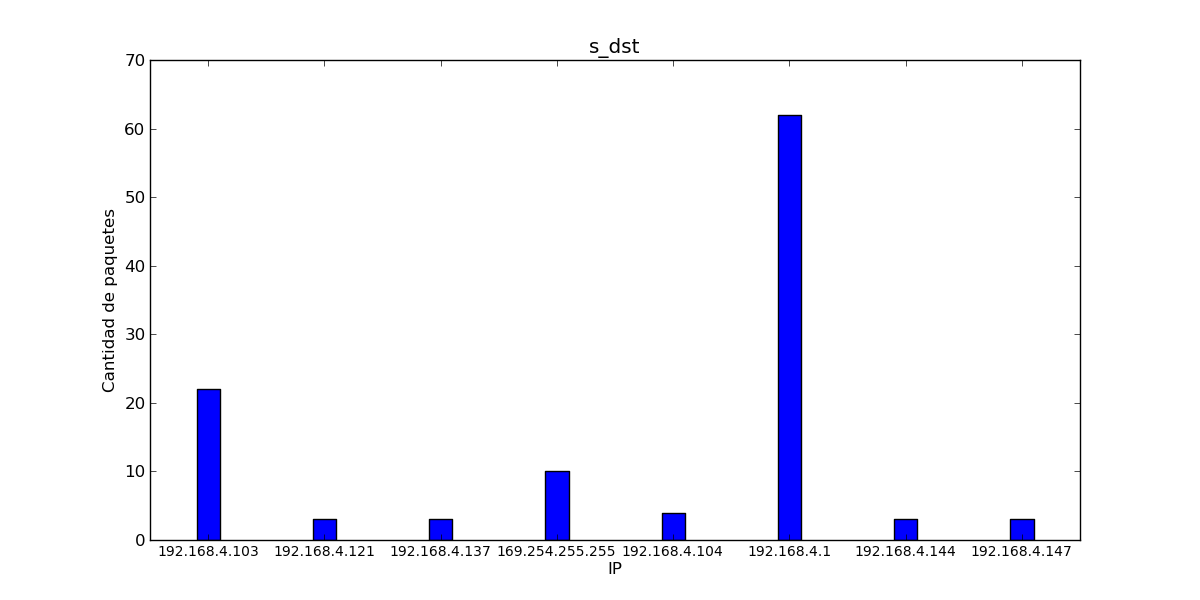
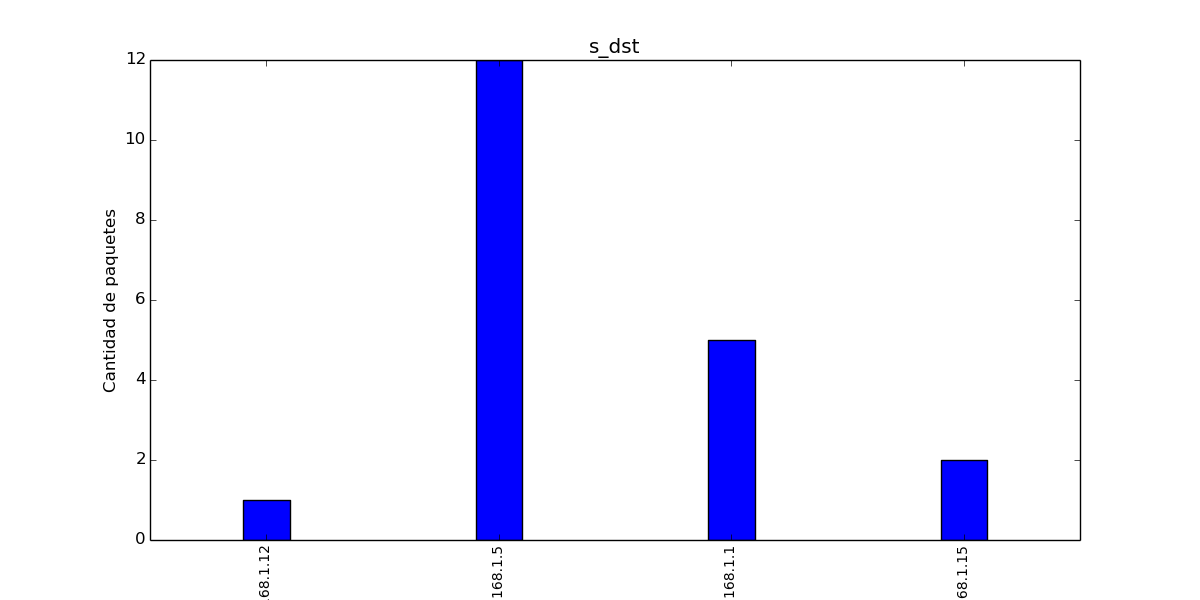
graficar info, definicion informacion

diff --git a/arp_analysis_tool.py b/arp_analysis_tool.py
@@ -4,17 +4,19 @@ import sys;
 import time;
 import math;
 import matplotlib.pyplot as plt;
-import pydot;
+#import pydot;
 
 def main():
   s_src, s_dst = read_data()
   hist, info, entropy = compute_source_indicators(s_src)
   print_indicators('s_src', hist, info, entropy)
   plot_histogram('s_src', hist)
+  plot_info('src_info', info, entropy)
   hist, info, entropy = compute_source_indicators(s_dst)
   print_indicators('s_dst', hist, info, entropy)
   plot_histogram('s_dst', hist)
-  plot_network(s_src, s_dst)
+  plot_info('dst_info', info, entropy)
+  #plot_network(s_src, s_dst)
 
 def read_data():
   s_src, s_dst = [], []
@@ -46,11 +48,25 @@ def plot_histogram(source, hist):
   f = plt.figure(source, [12, 6])
   plt.xlim([-2, x[-1] + 2])
   plt.bar(x, y, align='center')
-  plt.xticks(x, labels, size='small')
+  plt.xticks(x, labels, size='small', rotation='vertical')
   plt.title(source)
   plt.xlabel("IP")
   plt.ylabel("Cantidad de paquetes")
   f.savefig('imgs/{source}.png'.format(source=source))
+
+def plot_info(source, hist, entropy):
+  x, y = [4 * i for i in range(len(hist))], hist.values()
+  labels = hist.keys()
+  f = plt.figure(source, [12, 6])
+  plt.xlim([-2, x[-1] + 2])
+  plt.bar(x, y, align='center')
+  plt.axhline(entropy, color='r')
+  plt.xticks(x, labels, size='small',rotation='vertical')
+  plt.title(source)
+  plt.xlabel("IP")
+  plt.ylabel("Informacion")
+  f.savefig('imgs/{source}.png'.format(source=source))
+
 
 def plot_network(s_src, s_dst):
   graph = pydot.Dot(graph_type='digraph')

diff --git a/informe/informe.tex b/informe/informe.tex
@@ -61,7 +61,19 @@
 En este trabajo práctico vamos a abordar el desarrollo de herramientas de diagnóstico de red. Nuestro objetivo va a ser analizar estadísticamente el protocolo ARP. Por otro lado, vamos a sacar conclusiones acerca de los tipos de dispositivos de red que se pueden encontrar en un segumento de red determinado. Para ello, utilizamos la herramienta de manipulación y análisis de paquetes, Scapy.
 
 \section{Desarrollo}
+Antes de comenzar el desarrollo vamos a definir algunos términos.
 
+Informacion
+Dado un evento E decimos que cuando E tiene lugar, recibimos 
+
+$I (E) = log(\frac{1}{P(E)})$ unidades de información.
+
+Al usar $log_2$ la unidad obtenida es bits.
+
+
+
+Entropia
+Nodo distinguido
 
 \section{Conclusión}
 Como conclusión, queremos recalcar que ALGO IMPORTANTE.
